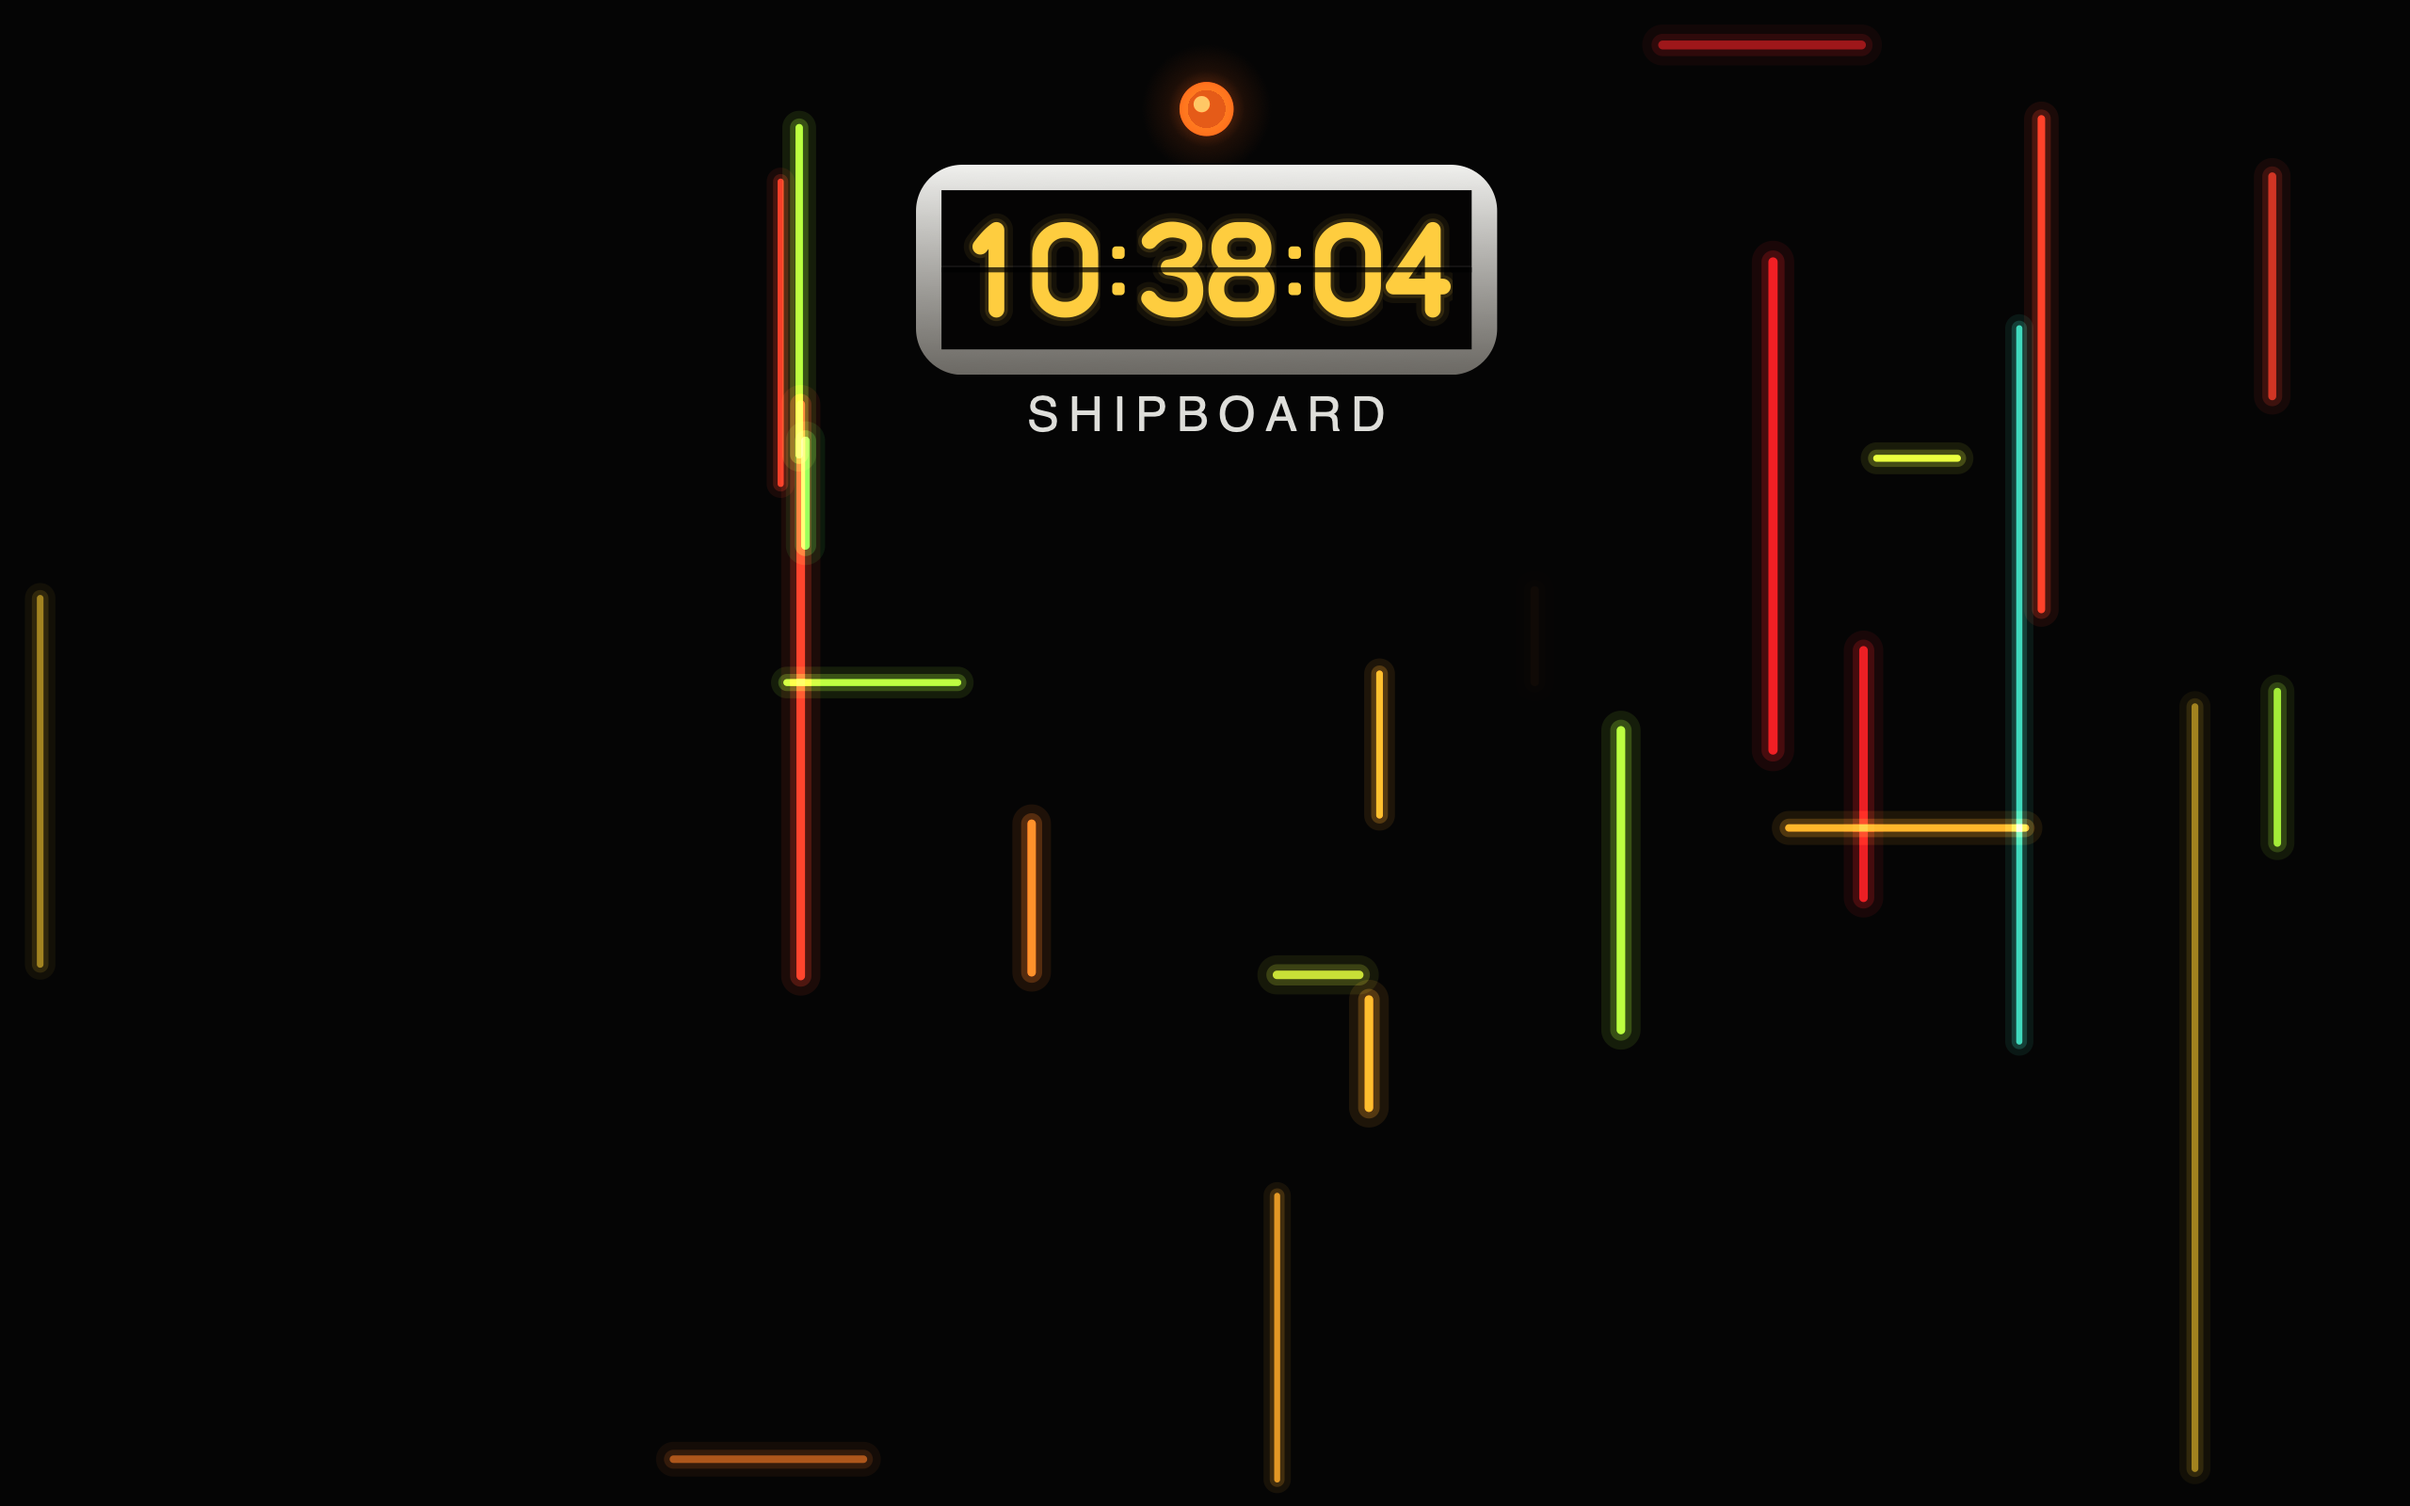
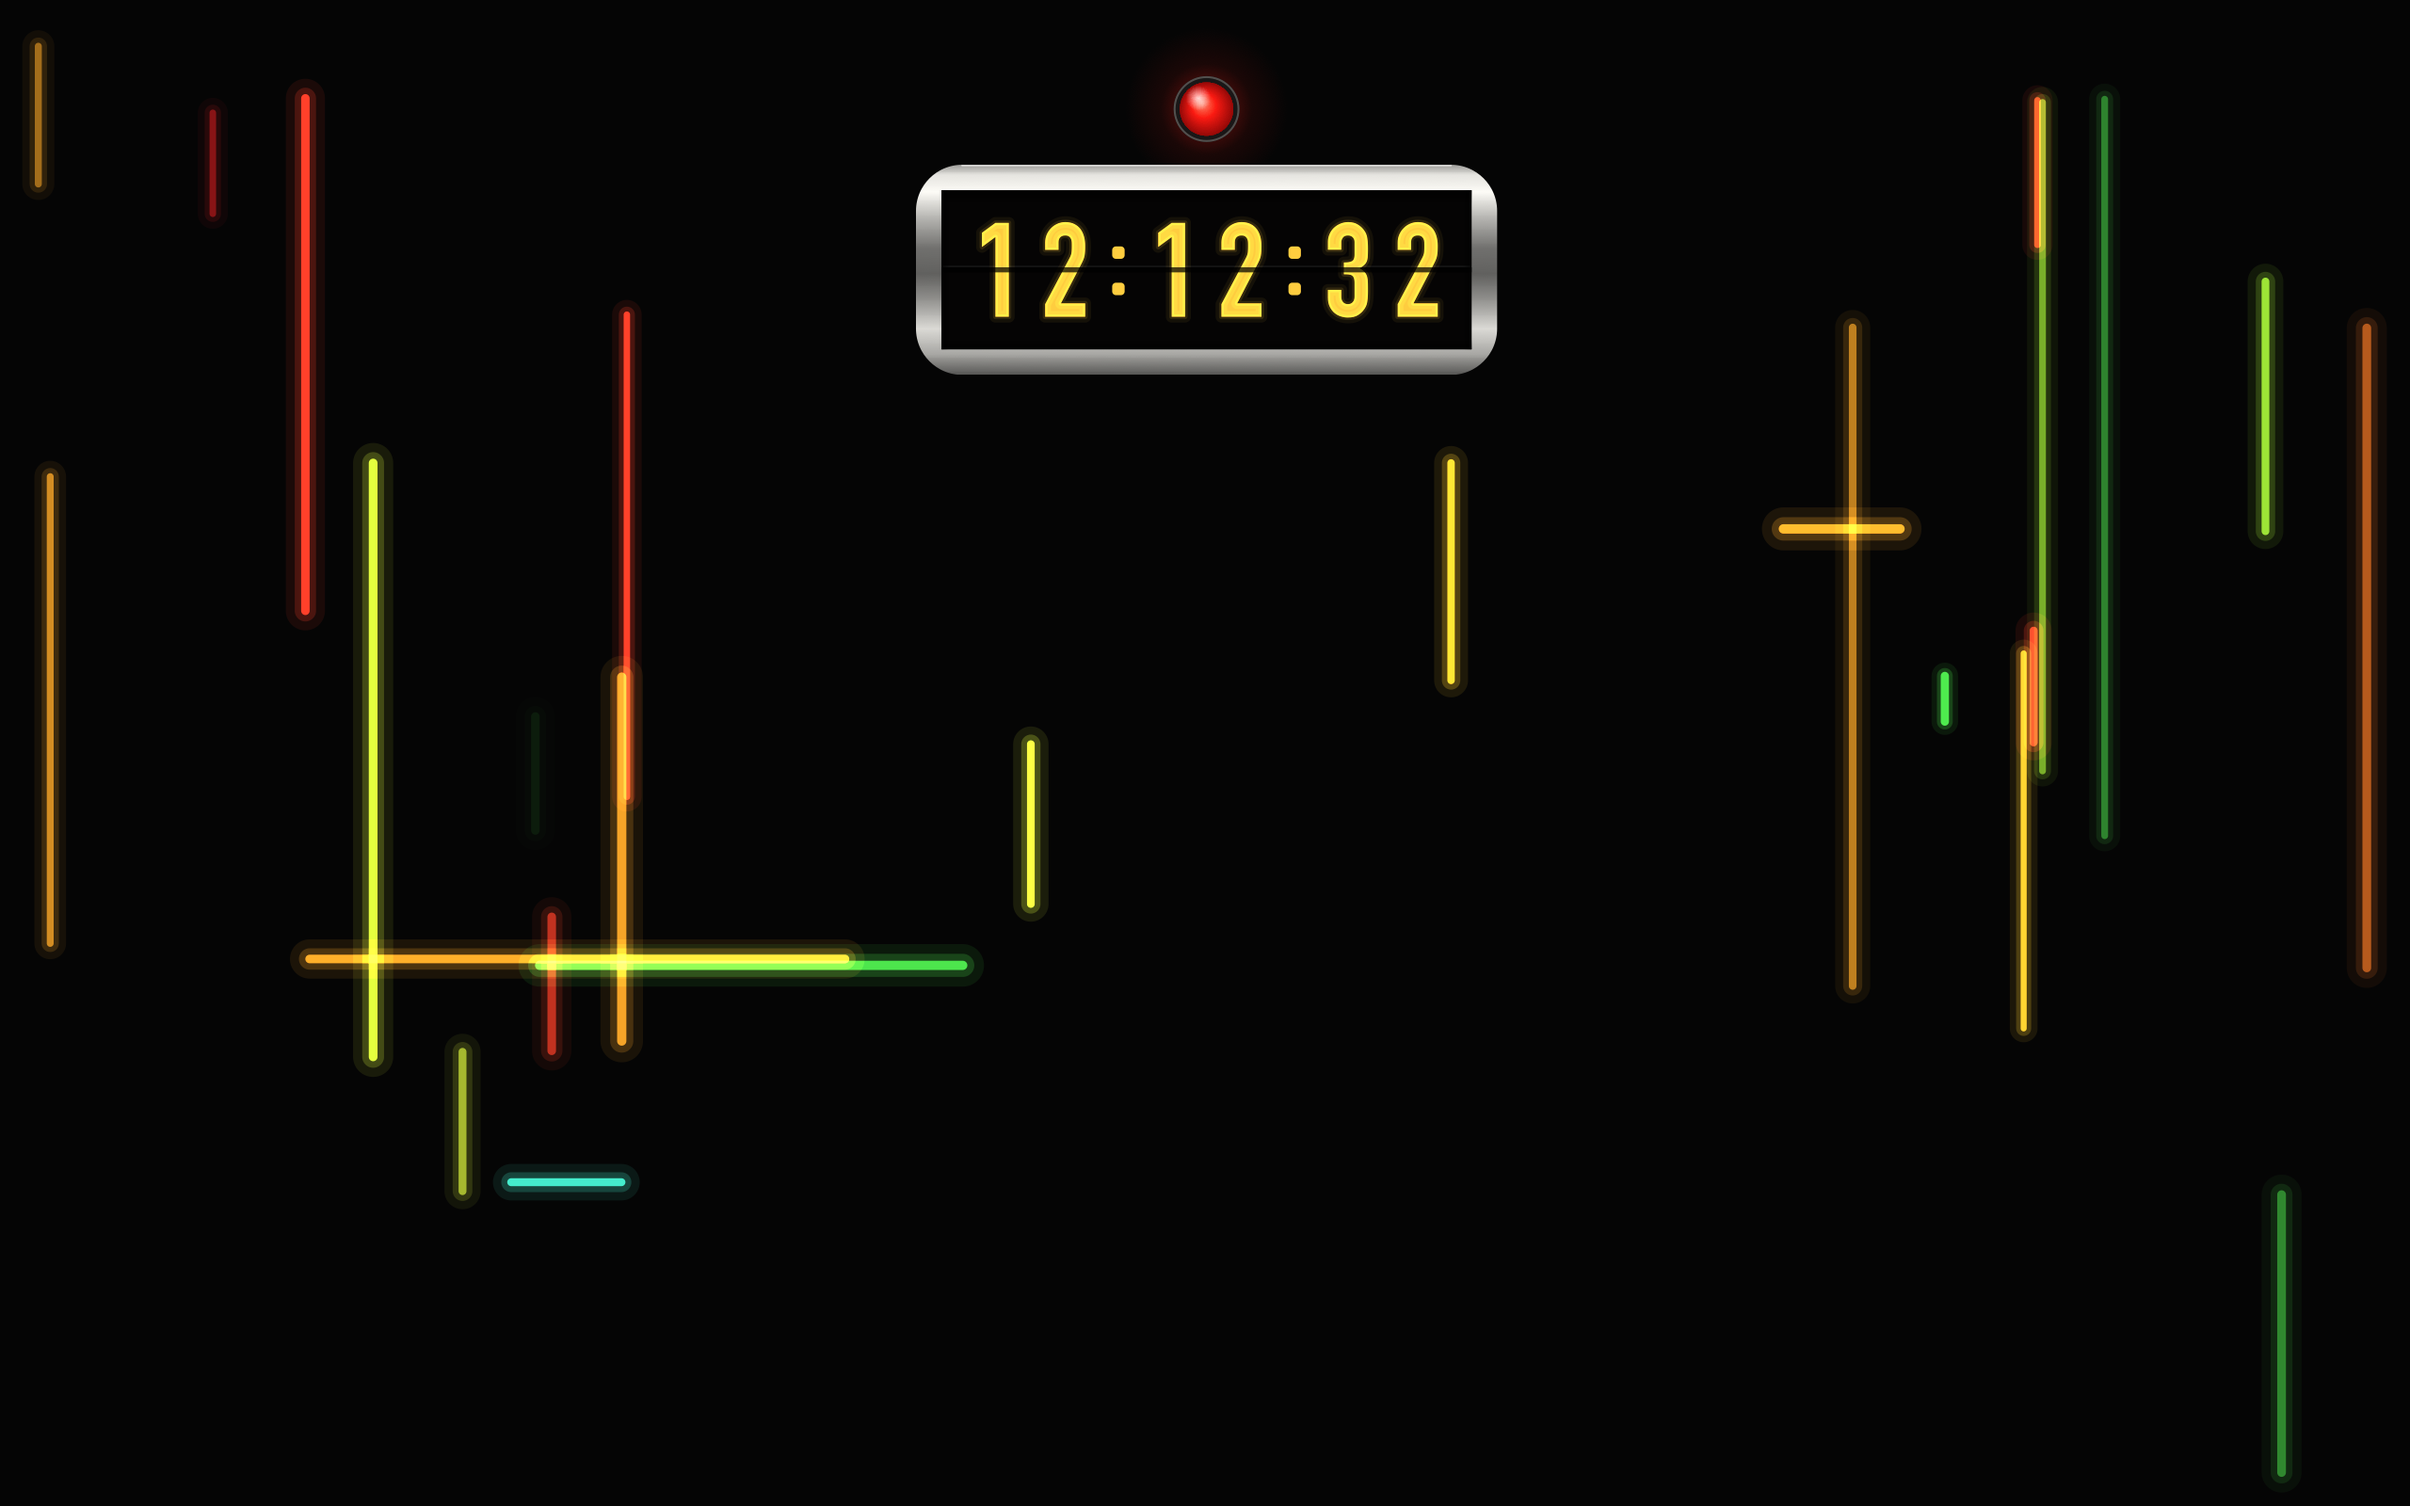
Use DIN Condensed Bold for the readouts
DigitFacePreference picks the first available of DIN Condensed Bold, SF
Condensed Bold, then the built-in drum numerals. All ship with macOS, so
friends need install nothing and the repo bundles no font — which also keeps
licensed faces out of it. Univers and Adobe's DIN read well here but cannot
legally be redistributed inside a screensaver handed to someone else.

DigitFace gains a .system(weight:width:) case reached through
NSFont.systemFont plus a descriptor width trait. SF must not be requested by
PostScript name: CoreText silently substitutes Times New Roman for
".SFNS-Bold" and only logs a note about it. The width trait resolves to real
cuts (-0.2 CondensedBold, -0.4 ExtraCompressedBold) on modern macOS and falls
back to standard width on older releases rather than failing.

The drum numerals remain in the tree as `face = .drum`.

diff --git a/src/CounterWindow.swift b/src/CounterWindow.swift
@@ -22,11 +22,52 @@ enum CounterStyle {
 }
 
 /// Where the numerals come from.
-enum DigitFace {
+enum DigitFace: Equatable {
     /// Hand-built drum-counter numerals: stroked skeletons, rounded and wide.
     case drum
-    /// Outlines lifted from an installed typeface, filled.
+    /// Outlines lifted from an installed typeface, by PostScript name.
     case font(String)
+    /// The San Francisco system face, reached through the system API rather
+    /// than by name — asking CoreText for ".SFNS-Bold" by name silently hands
+    /// back Times New Roman. `width` is the descriptor width trait: 0 is
+    /// standard, -0.2 condensed, -0.4 extra compressed.
+    case system(weight: CGFloat, width: CGFloat)
+
+    /// nil when the named font isn't installed, so the caller can fall back.
+    func resolved() -> CTFont? {
+        switch self {
+        case .drum:
+            return nil
+        case .font(let name):
+            let f = CTFontCreateWithName(name as CFString, 100, nil)
+            // CoreText substitutes silently, so confirm we got what we asked for.
+            guard (CTFontCopyPostScriptName(f) as String) == name else { return nil }
+            return f
+        case .system(let weight, let width):
+            let base = NSFont.systemFont(ofSize: 100, weight: NSFont.Weight(weight))
+            guard width != 0 else { return base as CTFont }
+            // SF carries a real wdth axis on modern macOS; on older releases
+            // this resolves back to the standard width rather than failing.
+            let d = base.fontDescriptor.addingAttributes([
+                .traits: [NSFontDescriptor.TraitKey.width: width]
+            ])
+            return (NSFont(descriptor: d, size: 100) ?? base) as CTFont
+        }
+    }
+}
+
+/// Picks the numerals. Everything here ships with macOS, so friends need
+/// install nothing and the repo bundles no font — which also keeps licensed
+/// faces (Univers, Adobe's DIN) out of it entirely.
+enum DigitFacePreference {
+    static func best() -> DigitFace {
+        let candidates: [DigitFace] = [
+            .font("DINCondensed-Bold"),             // /System/Library/Fonts/Supplemental
+            .system(weight: 0.4, width: -0.2),      // SF Condensed Bold
+        ]
+        for c in candidates where c.resolved() != nil { return c }
+        return .drum
+    }
 }
 
 /// One character position on a counter drum.
@@ -147,8 +188,7 @@ final class CounterWindow {
     /// Glyph outline for `ch` normalised into a unit box, cached per face.
     private func unitPath(_ ch: Character) -> CGPath? {
         if let p = unitPaths[ch] { return p }
-        guard case .font(let name) = face else { return nil }
-        let font = CTFontCreateWithName(name as CFString, 100, nil)
+        guard let font = face.resolved() else { return nil }
 
         func outline(_ c: Character) -> CGPath? {
             var utf16 = Array(String(c).utf16)
@@ -216,7 +256,7 @@ final class CounterWindow {
                 ctx.strokePath()
             }
 
-        case .font:
+        case .font, .system:
             guard let unit = unitPath(ch) else { break }
             var t = CGAffineTransform(scaleX: cell.height, y: cell.height)
                 .concatenating(CGAffineTransform(translationX: cell.midX, y: cell.midY))

diff --git a/src/ChronometerView.swift b/src/ChronometerView.swift
@@ -51,6 +51,9 @@ public class ChronometerView: ScreenSaverView {
         super.init(frame: frame, isPreview: isPreview)
         animationTimeInterval = 1.0 / 60.0
         wantsLayer = true
+        let face = DigitFacePreference.best()
+        stardate.face = face
+        shipboard.face = face
         let now = Date()
         stardate.set(Stardate.string(now), animated: false)
         shipboard.set(ShipboardClock.string(now), animated: false)

diff --git a/src/M5ClockView.swift b/src/M5ClockView.swift
@@ -23,6 +23,7 @@ public class M5ClockView: M5PanelView {
 
     public override init?(frame: NSRect, isPreview: Bool) {
         super.init(frame: frame, isPreview: isPreview)
+        shipboard.face = DigitFacePreference.best()
         shipboard.set(ShipboardClock.string(Date()), animated: false)
     }
 

diff --git a/README.md b/README.md
@@ -83,17 +83,28 @@ an indicator lamp over each, and letterspaced labels beneath. The left window
 shows a stardate, the right a 24-hour shipboard clock. Panel proportions,
 window sizes, lamp placement and label position are all measured off the prop.
 
-The digits are **not a font**. The prop uses a mechanical drum counter, so the
-ten numerals plus the colon are stroked vector paths in `src/DrumDigits.swift`,
-built on a unit box and sized by a single stroke-weight fraction. Each digit
+The digits are **DIN Condensed Bold**, which ships with macOS in
+`/System/Library/Fonts/Supplemental/`. `DigitFacePreference` picks the first
+available of DIN Condensed Bold, then SF Condensed Bold, then the built-in
+drum numerals — so nothing has to be installed and no font is bundled. That
+also keeps licensed faces out of the repo: Univers and Adobe's DIN are lovely
+here but cannot legally be redistributed inside a screensaver you hand to
+someone else.
+
+SF is reached through `NSFont.systemFont(ofSize:weight:)` plus a descriptor
+width trait, never by name — asking CoreText for `.SFNS-Bold` by name silently
+returns Times New Roman.
+
+The built-in alternative in `src/DrumDigits.swift` is a set of original stroked
+vector paths — the ten numerals plus the colon on a unit box, sized by a single
+stroke-weight fraction. Set `face = .drum` to use them. Whichever face is used, the window
 carries the horizontal seam where the two halves of the wheel meet, and when a
 digit changes the old one rises out of view while the new one comes up from
 below, clipped by the window.
 
 The labels use Helvetica, which ships with macOS. The prop's labels are a
 letterspaced neo-grotesque — consistent with Helvetica, though the broadcast
-source is too soft to identify it definitively. Nothing is bundled, so there is
-no font-licensing question.
+source is too soft to identify it definitively.
 
 The whole panel drifts slowly on two incommensurate periods, so a clock left on
 screen for hours isn't a burn-in risk.
